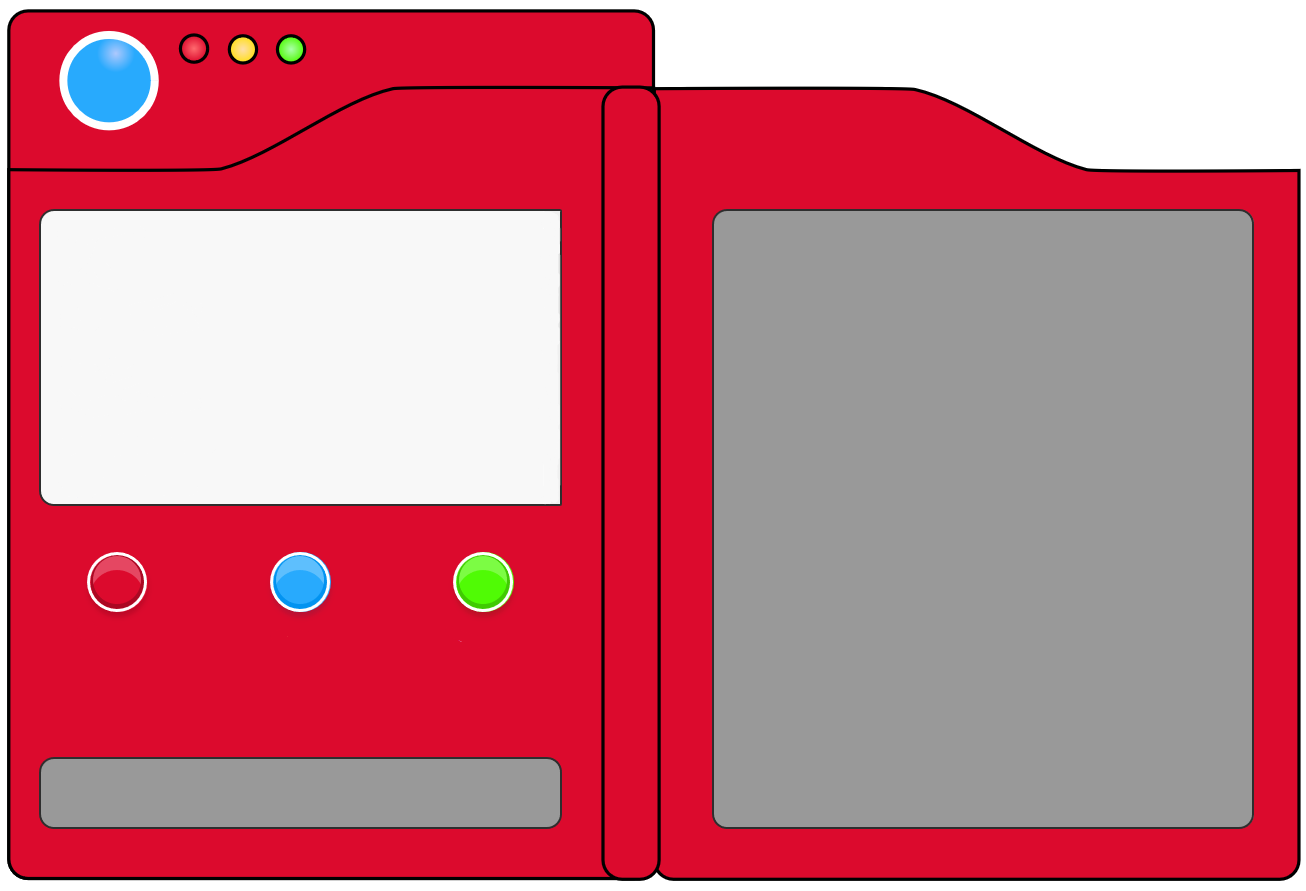
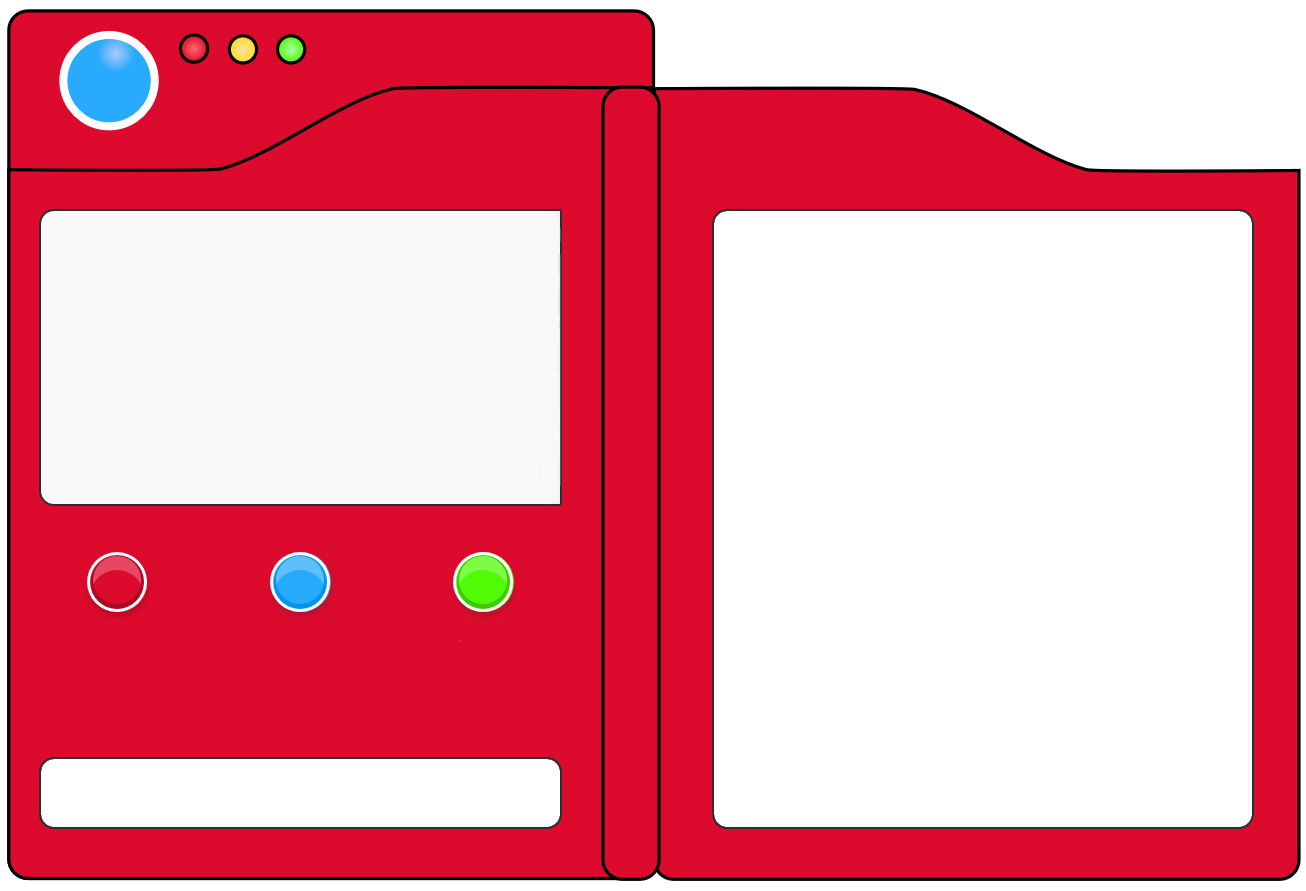
pokedex heroku

diff --git a/public/index.js b/public/index.js
@@ -10,7 +10,7 @@ function pantallaCarga() {
 
 async function extraerUrlPokemons() {
 
-    return fetch('https://pokeapi.co/api/v2/pokemon?limit=1000')
+    return fetch('https://pokeapi.co/api/v2/pokemon?limit=10')
         .then(res => {
             return res.json();
         }).then(respuesta => {
@@ -25,6 +25,9 @@ async function extraerPokemons() {
         const resp = await fetch(urlPokemons[i].url);
         const json = await resp.json();
 
+        console.log(json);
+        
+
         if (json.sprites.front_default != null) {
             
             pokemons.push({ 
@@ -32,6 +35,7 @@ async function extraerPokemons() {
                 name: json.forms[0].name,
                 types: json.types,
                 moves: [json.moves[0], json.moves[1], json.moves[2], json.moves[3]],
+                movesDesc: [],
                 img: json.sprites.front_default
             });
         }
@@ -72,14 +76,10 @@ async function pintarPokemons(array) {
 
 function mostrarPokedex(pokemon) {
     
-    console.log(window.pageYOffset);
-    
     document.querySelector('body').style.overflow = 'hidden';
     
     let divPokedex = document.getElementById('divPokedex');
     divPokedex.onclick = retirarPokedex;
-    
-    
 
     let pokedex = document.getElementById('pokedex');
     pokedex.onclick = (e) => {
@@ -109,7 +109,7 @@ function mostrarPokedex(pokemon) {
     divPokedex.setAttribute('style', 'top: ' + window.pageYOffset + 'px');
     divPokedex.style.visibility = 'visible';
     console.log(divPokedex.getAttribute('style'));
-    
+
     pokedex.appendChild(types);
 
 }
@@ -136,6 +136,7 @@ function eventos() {
     
 
     botonBuscar.onclick = () => {
+
         let nombrePokemon = buscador.value.toLowerCase();
         console.log(nombrePokemon);
         let pokemonsBuscar = pokemons.filter(pokes => {

diff --git a/public/estilos.css b/public/estilos.css
@@ -25,7 +25,7 @@ body {
       height: 100px; }
     body header #formHeader {
       margin-top: 5px; }
-    body header #buscador {
+    body header input {
       outline: none; }
   body #containerPokemons {
     width: 80%;
@@ -69,8 +69,8 @@ body {
         display: flex;
         flex-direction: column;
         position: relative;
-        top: -400px;
-        left: 100px;
+        top: -450px;
+        left: 110px;
         align-content: space-between; }
         body #divPokedex #pokedex #types img {
           width: 40px;
@@ -81,19 +81,20 @@ body {
         display: flex;
         flex-direction: column;
         width: 260px;
-        left: 360px;
-        top: 15px; }
+        left: 358px;
+        top: 11px; }
         body #divPokedex #pokedex .attacks .attack {
           width: 260px;
           height: 68px;
-          background-color: white;
+          border: 1px solid black;
           border-radius: 10px 10px 10px 10px;
           margin-bottom: 5px;
           text-align: center; }
       body #divPokedex #pokedex p {
         position: relative;
-        top: -20px;
-        left: 100px; }
+        font-size: x-large;
+        top: -48px;
+        left: 28px; }
   body #divCarga {
     display: flex;
     flex-direction: column;

diff --git a/scss/estilos.scss b/scss/estilos.scss
@@ -33,7 +33,7 @@ body {
       margin-top: 5px;
     }
 
-    #buscador {
+    input {
       outline: none;
     }
   }
@@ -88,8 +88,8 @@ body {
         display: flex;
         flex-direction: column;
         position: relative;
-        top: -400px;
-        left: 100px;
+        top: -450px;
+        left: 110px;
         align-content: space-between;
         
         img {
@@ -104,13 +104,13 @@ body {
         display: flex;
         flex-direction: column;
         width: 260px;
-        left: 360px;
-        top: 15px;
+        left: 358px;
+        top: 11px;
 
         .attack {
           width: 260px;
           height: 68px;
-          background-color: rgb(255, 255, 255);
+          border: 1px solid black;
           border-radius: 10px 10px 10px 10px;
           margin-bottom: 5px;
           text-align: center;
@@ -132,8 +132,9 @@ body {
 
       p {
         position: relative;
-        top: -20px;
-        left: 100px;
+        font-size: x-large;
+        top: -48px;
+        left: 28px;
       }
     }
   }
